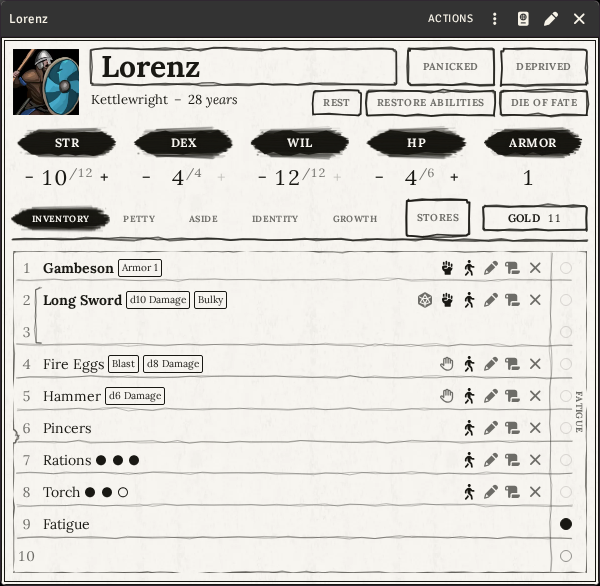
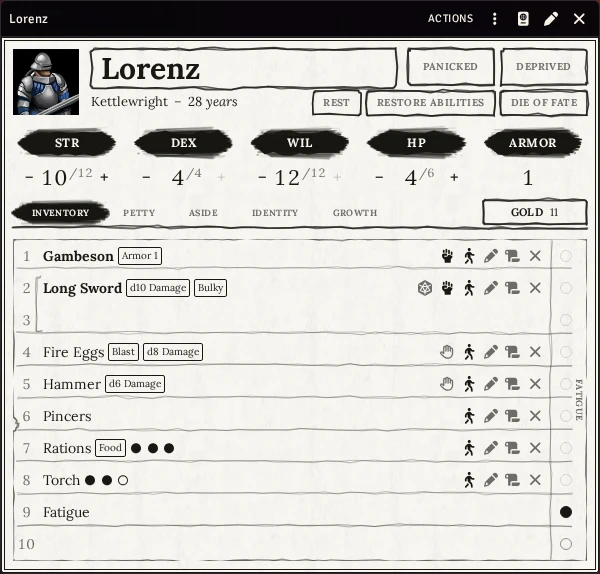
The character sheet's screenshot is taken again without the Stores chip the sheet no longer has

diff --git a/README.md b/README.md
@@ -7,7 +7,7 @@ and keeps the bookkeeping for you: the inventory slots, Fatigue, damage spilling
 watches of a journey and the turns of a dungeon.
 
 <p align="center">
-  <img src="docs/images/character-sheet.webp" alt="A character sheet: three attributes, HP, armor, the Stores button beside the gold, and ten inventory slots with fatigue markers" width="49%">
+  <img src="docs/images/character-sheet.webp" alt="A character sheet: three attributes, HP, armor, the gold, and ten inventory slots with fatigue markers" width="49%">
   <img src="docs/images/character-creator.webp" alt="The character creator's first step: choosing one of the twenty backgrounds" width="49%">
 </p>
 

diff --git a/docs/wiki.md b/docs/wiki.md
@@ -288,7 +288,7 @@ the **Other Backgrounds** list.
 ## 3. The character sheet
 
 <p align="center">
-  <img src="images/character-sheet.webp" alt="A character sheet: three attributes, HP, armor, the Stores button beside the gold, and ten inventory slots with fatigue markers" width="70%">
+  <img src="images/character-sheet.webp" alt="A character sheet: three attributes, HP, armor, the gold, and ten inventory slots with fatigue markers" width="70%">
 </p>
 
 ### The top of the sheet
